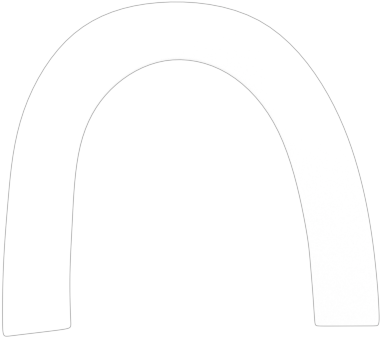
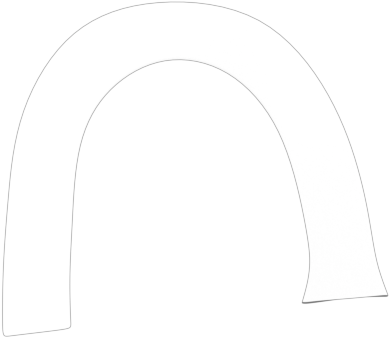
refactor: spaceship ramp curve (#173)
* refactor: spaceship ramp curve and new assets

* refactor: use separate base assets

* refactor: group spaceship stories

* refactor: set opacity on all sprite descendants

* chore: move positioning

diff --git a/packages/pinball_components/lib/src/components/spaceship_ramp.dart b/packages/pinball_components/lib/src/components/spaceship_ramp.dart
@@ -1,4 +1,4 @@
-// ignore_for_file: avoid_renaming_method_parameters, comment_references
+// ignore_for_file: avoid_renaming_method_parameters
 
 import 'dart:math' as math;
 
@@ -8,13 +8,13 @@ import 'package:pinball_components/gen/assets.gen.dart';
 import 'package:pinball_components/pinball_components.dart' hide Assets;
 
 /// {@template spaceship_ramp}
-/// A [Blueprint] which creates the [_SpaceshipRampBackground].
+/// A [Blueprint] which creates the ramp leading into the [Spaceship].
 /// {@endtemplate}
 class SpaceshipRamp extends Forge2DBlueprint {
   /// {@macro spaceship_ramp}
   SpaceshipRamp();
 
-  /// Base priority for wall while be in the ramp.
+  /// Base priority for the [Ball] while inside the ramp.
   static const int ballPriorityInsideRamp = 4;
 
   @override
@@ -28,23 +28,28 @@ class SpaceshipRamp extends Forge2DBlueprint {
       outsidePriority: 1,
       rotation: math.pi,
     )
-      ..initialPosition = Vector2(1.7, 19)
+      ..initialPosition = Vector2(1.7, 19.8)
       ..layer = Layer.opening;
     final leftOpening = _SpaceshipRampOpening(
       outsideLayer: Layer.spaceship,
       outsidePriority: Spaceship.ballPriorityWhenOnSpaceship,
       rotation: math.pi,
     )
-      ..initialPosition = Vector2(-13.7, 19)
+      ..initialPosition = Vector2(-13.7, 18.6)
       ..layer = Layer.spaceshipEntranceRamp;
 
     final spaceshipRamp = _SpaceshipRampBackground();
+
+    final spaceshipRampBoardOpeningSprite =
+        _SpaceshipRampBoardOpeningSpriteComponent()
+          ..position = Vector2(3.4, -39.5);
 
     final spaceshipRampForegroundRailing = _SpaceshipRampForegroundRailing();
 
     final baseRight = _SpaceshipRampBase()..initialPosition = Vector2(1.7, 20);
 
     addAll([
+      spaceshipRampBoardOpeningSprite,
       rightOpening,
       leftOpening,
       baseRight,
@@ -54,8 +59,6 @@ class SpaceshipRamp extends Forge2DBlueprint {
   }
 }
 
-/// Represents the upper left blue ramp of the [Board] with its background
-/// railing.
 class _SpaceshipRampBackground extends BodyComponent
     with InitialPosition, Layered {
   _SpaceshipRampBackground()
@@ -71,7 +74,7 @@ class _SpaceshipRampBackground extends BodyComponent
 
     final outerLeftCurveShape = BezierCurveShape(
       controlPoints: [
-        Vector2(-30.95, 38),
+        Vector2(-30.75, 37.3),
         Vector2(-32.5, 71.25),
         Vector2(-14.2, 71.25),
       ],
@@ -83,13 +86,21 @@ class _SpaceshipRampBackground extends BodyComponent
     final outerRightCurveShape = BezierCurveShape(
       controlPoints: [
         outerLeftCurveShape.vertices.last,
-        Vector2(4.7, 71.25),
-        Vector2(6.3, 40),
+        Vector2(2.5, 71.9),
+        Vector2(6.1, 44.9),
       ],
     );
 
     final outerRightCurveFixtureDef = FixtureDef(outerRightCurveShape);
     fixturesDef.add(outerRightCurveFixtureDef);
+
+    final boardOpeningEdgeShape = EdgeShape()
+      ..set(
+        outerRightCurveShape.vertices.last,
+        Vector2(7.3, 41.1),
+      );
+    final boardOpeningEdgeShapeFixtureDef = FixtureDef(boardOpeningEdgeShape);
+    fixturesDef.add(boardOpeningEdgeShapeFixtureDef);
 
     return fixturesDef;
   }
@@ -111,8 +122,8 @@ class _SpaceshipRampBackground extends BodyComponent
     await super.onLoad();
     renderBody = false;
 
-    await add(_SpaceshipRampBackgroundRailingSpriteComponent());
     await add(_SpaceshipRampBackgroundRampSpriteComponent());
+    await add(_SpaceshipRampBackgroundRailingSpriteComponent());
   }
 }
 
@@ -125,9 +136,9 @@ class _SpaceshipRampBackgroundRailingSpriteComponent extends SpriteComponent
       Assets.images.spaceship.ramp.railingBackground.keyName,
     );
     this.sprite = sprite;
-    size = Vector2(38.3, 35.1);
+    size = sprite.originalSize / 10;
     anchor = Anchor.center;
-    position = Vector2(-12.2, -54.5);
+    position = Vector2(-11.7, -54.3);
   }
 }
 
@@ -142,11 +153,24 @@ class _SpaceshipRampBackgroundRampSpriteComponent extends SpriteComponent
     this.sprite = sprite;
     size = sprite.originalSize / 10;
     anchor = Anchor.center;
-    position = Vector2(-12.2, -53.5);
+    position = Vector2(-11.7, -53.6);
   }
 }
 
-/// Represents the foreground of the railing upper left blue ramp.
+class _SpaceshipRampBoardOpeningSpriteComponent extends SpriteComponent
+    with HasGameRef {
+  @override
+  Future<void> onLoad() async {
+    await super.onLoad();
+    final sprite = await gameRef.loadSprite(
+      Assets.images.spaceship.ramp.boardOpening.keyName,
+    );
+    this.sprite = sprite;
+    size = sprite.originalSize / 10;
+    anchor = Anchor.center;
+  }
+}
+
 class _SpaceshipRampForegroundRailing extends BodyComponent
     with InitialPosition, Layered {
   _SpaceshipRampForegroundRailing()
@@ -171,13 +195,21 @@ class _SpaceshipRampForegroundRailing extends BodyComponent
     final innerRightCurveShape = BezierCurveShape(
       controlPoints: [
         innerLeftCurveShape.vertices.last,
-        Vector2(-1, 64.5),
-        Vector2(0.1, 39.5),
+        Vector2(-2.5, 66.2),
+        Vector2(0, 44.5),
       ],
     );
 
     final innerRightCurveFixtureDef = FixtureDef(innerRightCurveShape);
     fixturesDef.add(innerRightCurveFixtureDef);
+
+    final boardOpeningEdgeShape = EdgeShape()
+      ..set(
+        innerRightCurveShape.vertices.last,
+        Vector2(-0.85, 40.8),
+      );
+    final boardOpeningEdgeShapeFixtureDef = FixtureDef(boardOpeningEdgeShape);
+    fixturesDef.add(boardOpeningEdgeShapeFixtureDef);
 
     return fixturesDef;
   }
@@ -212,13 +244,12 @@ class _SpaceshipRampForegroundRailingSpriteComponent extends SpriteComponent
       Assets.images.spaceship.ramp.railingForeground.keyName,
     );
     this.sprite = sprite;
-    size = Vector2(26.1, 28.3);
+    size = sprite.originalSize / 10;
     anchor = Anchor.center;
-    position = Vector2(-12.2, -52.5);
+    position = Vector2(-12.3, -52.5);
   }
 }
 
-/// Represents the ground right base of the [SpaceshipRamp].
 class _SpaceshipRampBase extends BodyComponent with InitialPosition, Layered {
   _SpaceshipRampBase() {
     renderBody = false;
@@ -227,14 +258,14 @@ class _SpaceshipRampBase extends BodyComponent with InitialPosition, Layered {
 
   @override
   Body createBody() {
-    const baseWidth = 6;
+    const baseWidth = 9;
     final baseShape = BezierCurveShape(
       controlPoints: [
         Vector2(initialPosition.x - baseWidth / 2, initialPosition.y),
         Vector2(initialPosition.x - baseWidth / 2, initialPosition.y) +
-            Vector2(2, 2),
+            Vector2(2, 5),
         Vector2(initialPosition.x + baseWidth / 2, initialPosition.y) +
-            Vector2(-2, 2),
+            Vector2(-2, 5),
         Vector2(initialPosition.x + baseWidth / 2, initialPosition.y)
       ],
     );
@@ -271,7 +302,7 @@ class _SpaceshipRampOpening extends RampOpening {
 
   final double _rotation;
 
-  static final Vector2 _size = Vector2(_SpaceshipRampBackground.width / 4, .1);
+  static final Vector2 _size = Vector2(_SpaceshipRampBackground.width / 3, .1);
 
   @override
   Shape get shape {

diff --git a/packages/pinball_components/test/src/components/spaceship_ramp_test.dart b/packages/pinball_components/test/src/components/spaceship_ramp_test.dart
@@ -1,5 +1,6 @@
 // ignore_for_file: cascade_invocations
 
+import 'package:flame_forge2d/flame_forge2d.dart';
 import 'package:flame_test/flame_test.dart';
 import 'package:flutter_test/flutter_test.dart';
 import 'package:pinball_components/pinball_components.dart';
@@ -8,20 +9,22 @@ import '../../helpers/helpers.dart';
 
 void main() {
   group('SpaceshipRamp', () {
-    TestWidgetsFlutterBinding.ensureInitialized();
-    final flameTester = FlameTester(TestGame.new);
+    final tester = FlameTester(TestGame.new);
 
-    flameTester.test(
-      'loads correctly',
-      (game) async {
-        final spaceshipEntranceRamp = SpaceshipRamp();
-        await game.addFromBlueprint(spaceshipEntranceRamp);
+    tester.testGameWidget(
+      'renders correctly',
+      setUp: (game, tester) async {
+        await game.addFromBlueprint(SpaceshipRamp());
         await game.ready();
-
-        for (final element in spaceshipEntranceRamp.components) {
-          expect(game.contains(element), isTrue);
-        }
+        game.camera.followVector2(Vector2(-13, -50));
       },
+      // TODO(allisonryan0002): enable test when workflows are fixed.
+      // verify: (game, tester) async {
+      //   await expectLater(
+      //     find.byGame<Forge2DGame>(),
+      //     matchesGoldenFile('golden/spaceship-ramp.png'),
+      //   );
+      // },
     );
   });
 }

diff --git a/packages/pinball_components/sandbox/lib/common/trace.dart b/packages/pinball_components/sandbox/lib/common/trace.dart
@@ -12,8 +12,6 @@ extension BodyTrace on BodyComponent {
 
     unawaited(
       mounted.whenComplete(() {
-        children.whereType<SpriteComponent>().first.setOpacity(0.5);
-
         descendants().whereType<JointAnchor>().forEach((anchor) {
           final fixtureDef = FixtureDef(CircleShape()..radius = 0.5);
           anchor.body.createFixture(fixtureDef);
@@ -32,9 +30,13 @@ mixin Traceable on Forge2DGame {
   }) async {
     if (trace) {
       await ready();
-      children
+      descendants()
           .whereType<BodyComponent>()
           .forEach((bodyComponent) => bodyComponent.trace());
+
+      descendants()
+          .whereType<SpriteComponent>()
+          .forEach((sprite) => sprite.setOpacity(0.5));
     }
   }
 }

diff --git a/packages/pinball_components/sandbox/lib/stories/spaceship_ramp/spaceship_ramp_game.dart b/packages/pinball_components/sandbox/lib/stories/spaceship_ramp/spaceship_ramp_game.dart
@@ -14,7 +14,7 @@ class SpaceshipRampGame extends BasicBallGame {
         );
 
   static const info = '''
-    Shows how SpaceshipRamp are rendered.
+    Shows how SpaceshipRamp is rendered.
 
     - Activate the "trace" parameter to overlay the body.
     - Tap anywhere on the screen to spawn a ball into the game.
@@ -23,12 +23,8 @@ class SpaceshipRampGame extends BasicBallGame {
   @override
   Future<void> onLoad() async {
     await super.onLoad();
-
-    camera.followVector2(Vector2(-10, -20));
-
-    final spaceshipRamp = SpaceshipRamp();
-    unawaited(addFromBlueprint(spaceshipRamp));
-
+    await addFromBlueprint(SpaceshipRamp());
+    camera.followVector2(Vector2(-12, -50));
     await traceAllBodies();
   }
 }

diff --git a/packages/pinball_components/sandbox/lib/main.dart b/packages/pinball_components/sandbox/lib/main.dart
@@ -17,6 +17,8 @@ void main() {
   addEffectsStories(dashbook);
   addFlipperStories(dashbook);
   addSpaceshipStories(dashbook);
+  addSpaceshipRampStories(dashbook);
+  addSpaceshipRailStories(dashbook);
   addBaseboardStories(dashbook);
   addChromeDinoStories(dashbook);
   addDashNestBumperStories(dashbook);
@@ -28,8 +30,6 @@ void main() {
   addZoomStories(dashbook);
   addBoundariesStories(dashbook);
   addGoogleWordStories(dashbook);
-  addSpaceshipRampStories(dashbook);
-  addSpaceshipRailStories(dashbook);
   addLaunchRampStories(dashbook);
   addScoreTextStories(dashbook);
 

diff --git a/packages/pinball_components/lib/gen/assets.gen.dart b/packages/pinball_components/lib/gen/assets.gen.dart
@@ -283,6 +283,10 @@ class $AssetsImagesSpaceshipRailGen {
 class $AssetsImagesSpaceshipRampGen {
   const $AssetsImagesSpaceshipRampGen();
 
+  /// File path: assets/images/spaceship/ramp/board-opening.png
+  AssetGenImage get boardOpening =>
+      const AssetGenImage('assets/images/spaceship/ramp/board-opening.png');
+
   /// File path: assets/images/spaceship/ramp/main.png
   AssetGenImage get main =>
       const AssetGenImage('assets/images/spaceship/ramp/main.png');

diff --git a/lib/game/game_assets.dart b/lib/game/game_assets.dart
@@ -37,6 +37,7 @@ extension PinballGameAssetsX on PinballGame {
       images.load(components.Assets.images.spaceship.saucer.keyName),
       images.load(components.Assets.images.spaceship.bridge.keyName),
       images.load(components.Assets.images.spaceship.ramp.main.keyName),
+      images.load(components.Assets.images.spaceship.ramp.boardOpening.keyName),
       images.load(
         components.Assets.images.spaceship.ramp.railingBackground.keyName,
       ),
